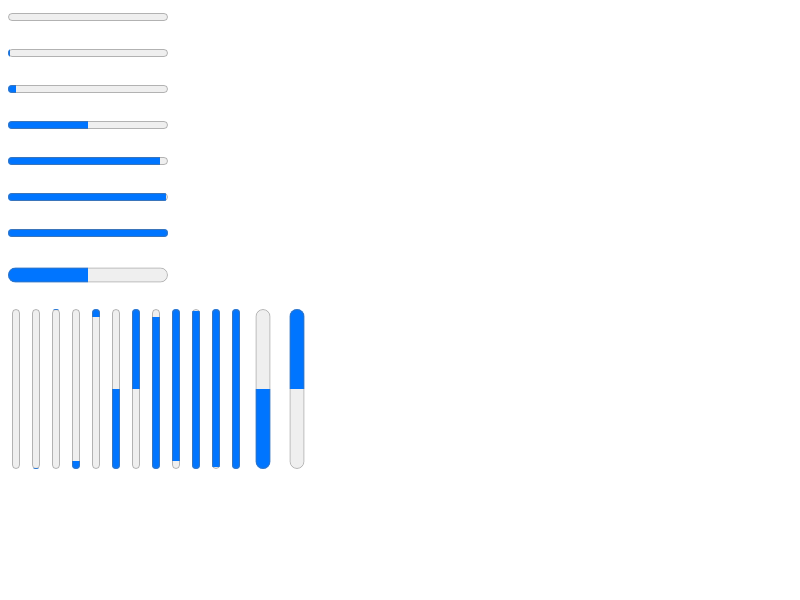
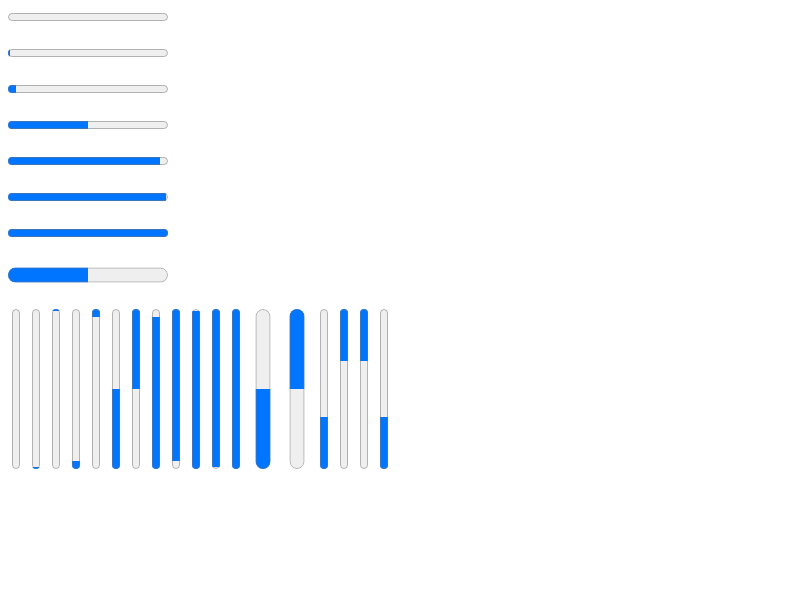
sideways: Support <progress> rendering
* DeterminateProgressValueRectFor() doesn't flip vertically by default.
* DirectionFlippingScope just checks the inline-end direction.

Bug: 351564777
Auto-Submit: Kent Tamura <tkent@chromium.org>
Commit-Queue: Di Zhang <dizhangg@chromium.org>
Cr-Commit-Position: refs/heads/main@{#1338880}
NOKEYCHECK=True
GitOrigin-RevId: 9c582c2aeae5e166cb79c29b8675e56a60fc5c4b

Changed region(s): [[0.375, 0.51, 0.4688, 0.78], [0.4688, 0.69, 0.5, 0.78]]

diff --git a/blink/web_tests/fast/dom/HTMLProgressElement/progress-element.html b/blink/web_tests/fast/dom/HTMLProgressElement/progress-element.html
@@ -1,1 +1,27 @@
-<html><body><progress value=70 max=100></progress><small><progress value=70 max=100 dir="rtl"></progress></small></body></html>
+<!DOCTYPE html>
+<html><body>
+<style>
+div {
+  display: inline-block;
+  inline-size: 10em;
+  padding: 8px;
+  border: 2px solid gray;
+}
+</style>
+<div>
+<progress value=70 max=100></progress><small><progress value=70 max=100 dir="rtl"></progress></small>
+</div>
+<div style="writing-mode:vertical-lr;">
+vertical-lr:<progress value=70 max=100></progress><small><progress value=70 max=100 dir="rtl"></progress></small>
+</div>
+<div style="writing-mode:vertical-rl;">
+vertical-rl:<progress value=70 max=100></progress><small><progress value=70 max=100 dir="rtl"></progress></small>
+</div>
+<div style="writing-mode:sideways-lr;">
+sideways-lr:<progress value=70 max=100></progress><small><progress value=70 max=100 dir="rtl"></progress></small>
+</div>
+<div style="writing-mode:sideways-rl;">
+sideways-rl:<progress value=70 max=100></progress><small><progress value=70 max=100 dir="rtl"></progress></small>
+</div>
+
+</body></html>

diff --git a/blink/web_tests/fast/forms/color-scheme/progress/progress-appearance-none.html b/blink/web_tests/fast/forms/color-scheme/progress/progress-appearance-none.html
@@ -10,6 +10,12 @@ progress.vertical {
 progress.rtl {
   direction: rtl;
 }
+progress.srl {
+  writing-mode: sideways-rl;
+}
+progress.slr {
+  writing-mode: sideways-lr;
+}
 </style>
 
 <progress max="100" value="0"></progress><br><br>
@@ -33,4 +39,9 @@ progress.rtl {
 <progress max="100" value="99" class="vertical"></progress>
 <progress max="100" value="100" class="vertical"></progress>
 <progress max="100" value="50" style="width:30px" class="vertical rtl"></progress>
-<progress max="100" value="50" style="width:30px" class="vertical"></progress></progress><br><br>
+<progress max="100" value="50" style="width:30px" class="vertical"></progress></progress>
+
+<progress max="100" value="33" class="srl rtl"></progress>
+<progress max="100" value="33" class="srl"></progress>
+<progress max="100" value="33" class="slr rtl"></progress>
+<progress max="100" value="33" class="slr"></progress>

diff --git a/blink/web_tests/fast/forms/color-scheme/progress/progress-appearance-basic.html b/blink/web_tests/fast/forms/color-scheme/progress/progress-appearance-basic.html
@@ -7,6 +7,12 @@ progress.vertical {
 progress.rtl {
   direction: rtl;
 }
+progress.srl {
+  writing-mode: sideways-rl;
+}
+progress.slr {
+  writing-mode: sideways-lr;
+}
 </style>
 
 <progress max="100" value="0"></progress><br><br>
@@ -30,4 +36,9 @@ progress.rtl {
 <progress max="100" value="99" class="vertical"></progress>
 <progress max="100" value="100" class="vertical"></progress>
 <progress max="100" value="50" style="width:30px" class="vertical rtl"></progress>
-<progress max="100" value="50" style="width:30px" class="vertical"></progress></progress><br><br>
+<progress max="100" value="50" style="width:30px" class="vertical"></progress></progress>
+
+<progress max="100" value="33" class="srl rtl"></progress>
+<progress max="100" value="33" class="srl"></progress>
+<progress max="100" value="33" class="slr rtl"></progress>
+<progress max="100" value="33" class="slr"></progress>

diff --git a/blink/renderer/core/paint/theme_painter_default.cc b/blink/renderer/core/paint/theme_painter_default.cc
@@ -169,13 +169,11 @@ DirectionFlippingScope::DirectionFlippingScope(
     const LayoutObject& layout_object,
     const PaintInfo& paint_info,
     const gfx::Rect& rect)
-    : needs_horizontal_flipping_(
-          IsHorizontalWritingMode(layout_object.StyleRef().GetWritingMode()) &&
-          !layout_object.StyleRef().IsLeftToRightDirection()),
-      needs_vertical_flipping_(
-          !IsHorizontalWritingMode(layout_object.StyleRef().GetWritingMode()) &&
-          layout_object.StyleRef().IsLeftToRightDirection()),
-      paint_info_(paint_info) {
+    : paint_info_(paint_info) {
+  PhysicalDirection inline_end =
+      layout_object.StyleRef().GetWritingDirection().InlineEnd();
+  needs_horizontal_flipping_ = inline_end == PhysicalDirection::kLeft;
+  needs_vertical_flipping_ = inline_end == PhysicalDirection::kUp;
   if (needs_horizontal_flipping_) {
     paint_info_.context.Save();
     paint_info_.context.Translate(2 * rect.x() + rect.width(), 0);
@@ -198,14 +196,12 @@ gfx::Rect DeterminateProgressValueRectFor(const LayoutProgress& layout_progress,
                                           const gfx::Rect& rect) {
   int dx = rect.width();
   int dy = rect.height();
-  int y = rect.y();
   if (IsHorizontalWritingMode(layout_progress.StyleRef().GetWritingMode())) {
     dx *= layout_progress.GetPosition();
   } else {
     dy *= layout_progress.GetPosition();
-    y += rect.height() - dy;
   }
-  return gfx::Rect(rect.x(), y, dx, dy);
+  return gfx::Rect(rect.x(), rect.y(), dx, dy);
 }
 
 gfx::Rect IndeterminateProgressValueRectFor(
